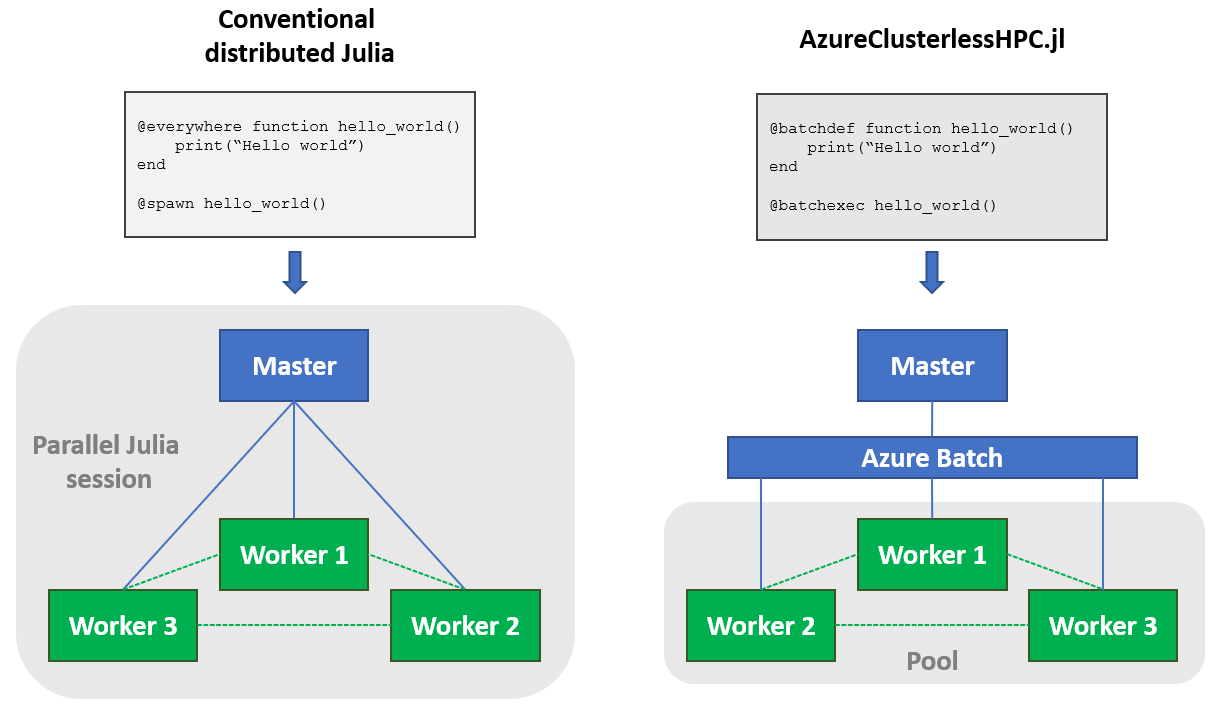
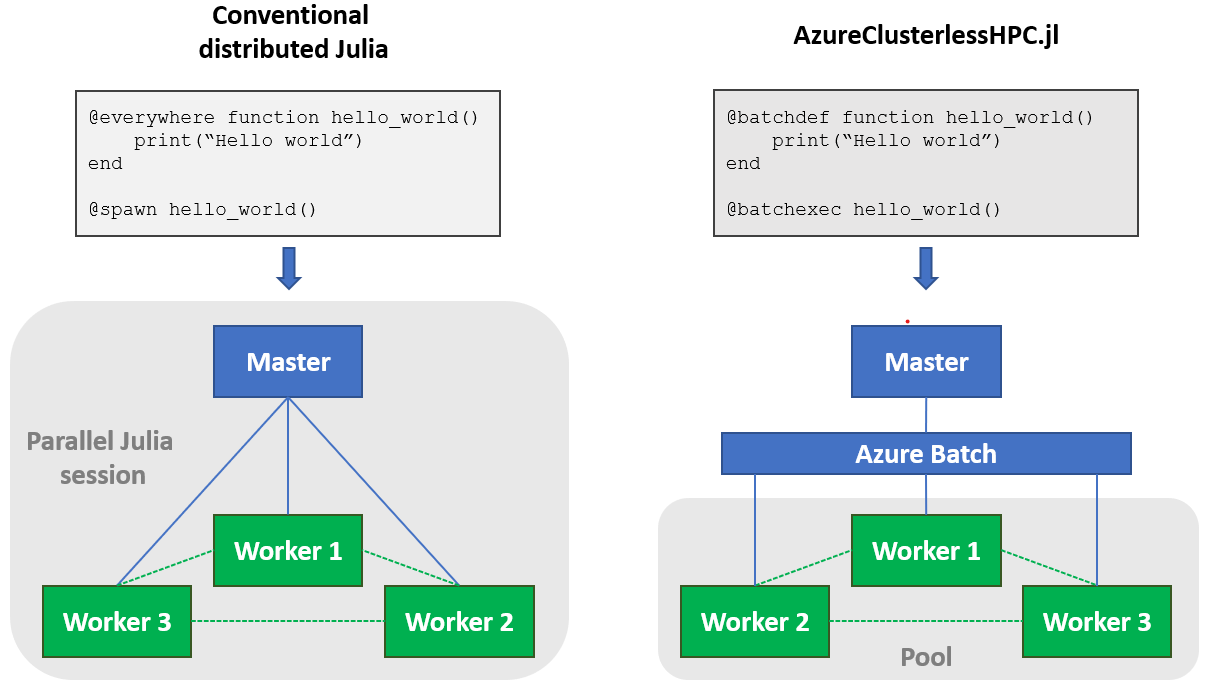
update font size

diff --git a/README.md b/README.md
@@ -4,7 +4,7 @@
 
 ## Overview
 
-**AzureClusterlessHPC.jl** is a package for simplified parallal computing on Azure. AzureClusterlessHPC.jl borrows the syntax of [Julia's Distributed Programming](https://docs.julialang.org/en/v1/stdlib/Distributed/) package to easily execute parallel Julia workloads in the cloud using [Azure Batch](https://azure.microsoft.com/en-us/services/batch/). Instead of a parallel Julia session, users can maintain one or multiple pools of workers and remotely execute code on them.
+**AzureClusterlessHPC.jl** is a package for simplified parallal computing on Azure. AzureClusterlessHPC.jl borrows the syntax of [Julia's Distributed Programming](https://docs.julialang.org/en/v1/stdlib/Distributed/) package to easily execute parallel Julia workloads in the cloud using [Azure Batch](https://azure.microsoft.com/en-us/services/batch/). Instead of a parallel Julia session, users create one or multiple worker pools and remotely execute code on them.
 
 ![im1](docs/overview.png)
 
